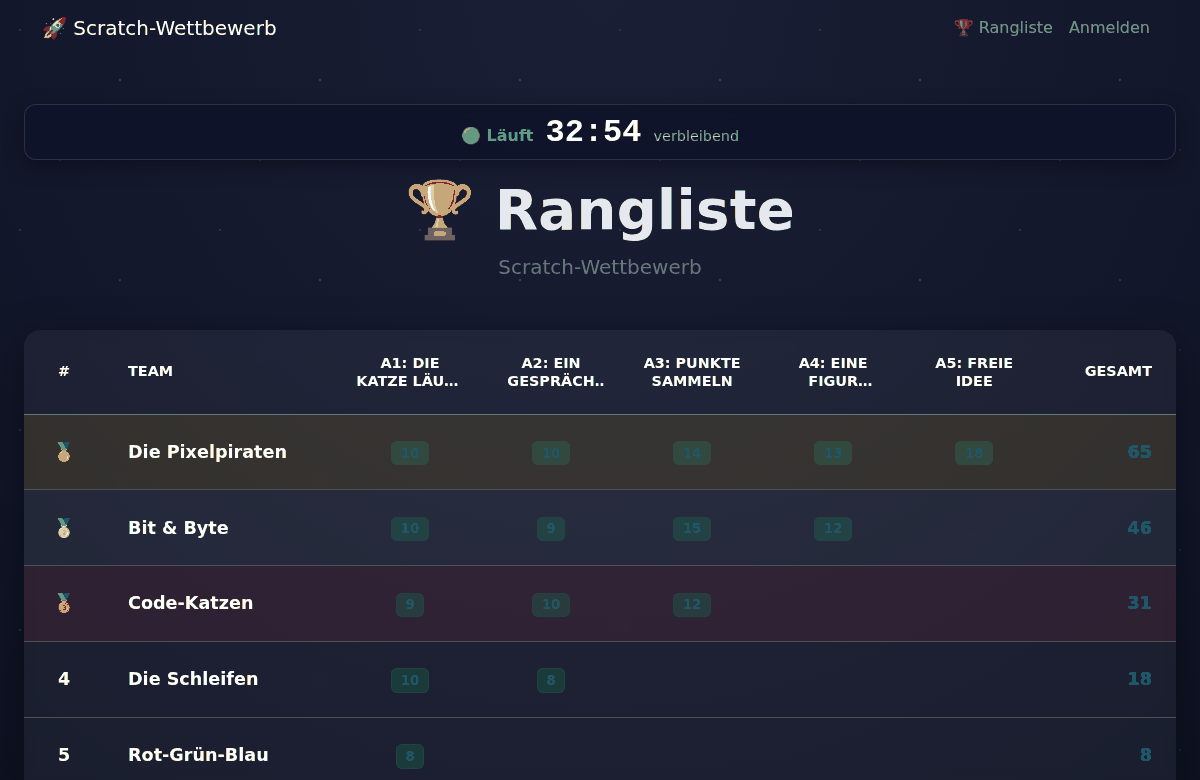
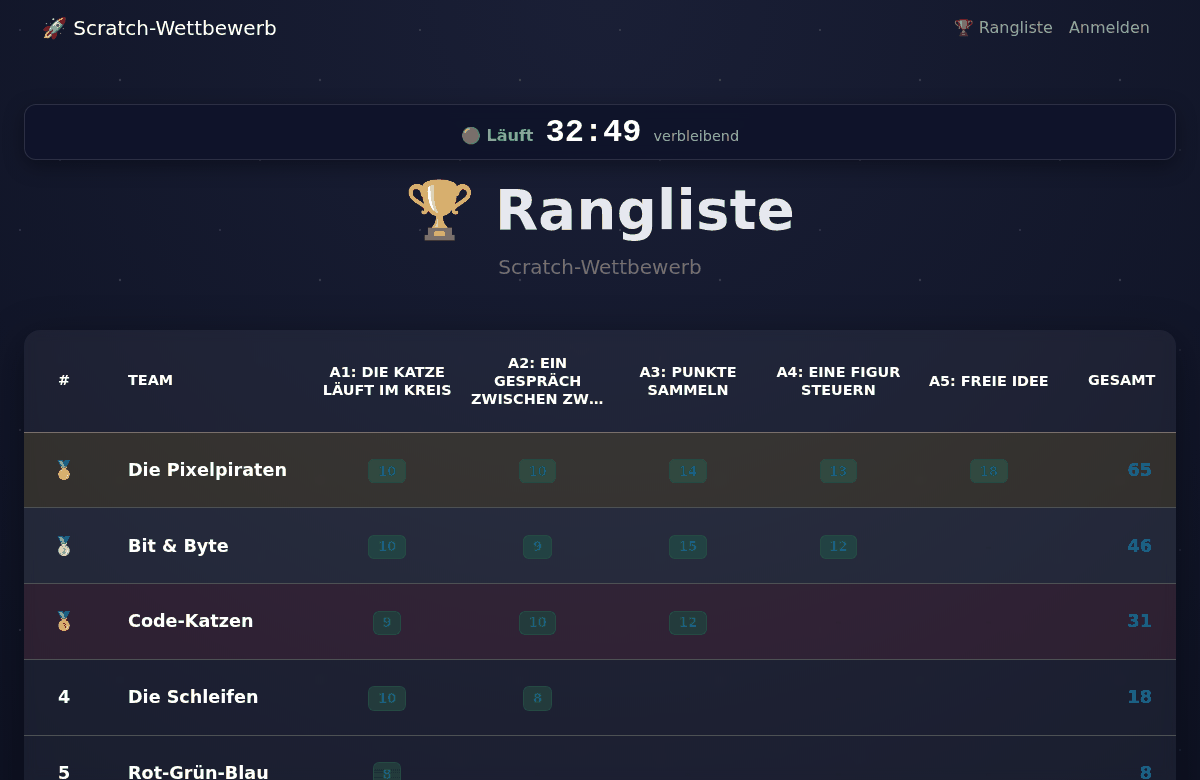
Rangliste passt ab Laptopbreite ganz auf die Seite
Mit 15 Aufgaben stand die Tabelle bei 1890 px seitlich über, die Spalte
„Gesamt“ war am Beamer nicht zu sehen. Ab 992 px teilt sich die Tabelle
die Seitenbreite: Platz, Team und Gesamt fest, die Aufgaben zu gleichen
Teilen, Titel bis zu drei Zeilen. Auf dem Handy wird weiter geschoben.

Claude-Session: https://claude.ai/code/session_01ACRifaqe4uUcFhZfaKFc9K

diff --git a/static/style.css b/static/style.css
@@ -109,6 +109,7 @@ input::placeholder, textarea::placeholder {
      ("Programmierwettbewerb") ist auf dem Handy breiter als die Seite und
      schöbe sie sonst zur Seite, statt umzubrechen. */
   overflow-wrap: anywhere;
+  hyphens: auto;
 }
 
 /* In der Leiste oben steht der Name des Wettbewerbs, und der kann lang sein.
@@ -358,5 +359,38 @@ input::placeholder, textarea::placeholder {
   -webkit-line-clamp: 2;
   line-clamp: 2;
   overflow: hidden;
+  overflow-wrap: anywhere;
+  hyphens: auto;
   line-height: 1.25;
+}
+
+.ranglisten-platz {
+  width: 80px;
+}
+
+/* Am Beamer müssen Platz und Gesamtpunkte ohne Schieben zu sehen sein, auch
+   bei vierzehn Aufgaben. Deshalb teilt sich die Tabelle ab Laptopbreite die
+   Breite der Seite: Platz, Team und Gesamt haben feste Spalten, die Aufgaben
+   bekommen den Rest zu gleichen Teilen. Werden sie schmal, kürzt sich der
+   Titel stärker - die Nummer vorne bleibt. Auf dem Handy lässt sich die
+   Tabelle wie bisher seitlich schieben. */
+@media (min-width: 992px) {
+  .ranglisten-tabelle {
+    table-layout: fixed;
+    width: 100%;
+  }
+
+  .ranglisten-team {
+    width: 13rem;
+  }
+
+  .ranglisten-gesamt {
+    width: 7rem;
+  }
+
+  .ranglisten-aufgabe {
+    width: auto;
+    -webkit-line-clamp: 3;
+    line-clamp: 3;
+  }
 }

diff --git a/templates/scoreboard.html b/templates/scoreboard.html
@@ -32,17 +32,17 @@
 
     <div class="event-card p-0 overflow-hidden">
       <div class="table-responsive">
-        <table class="table table-hover table-dark mb-0 bg-transparent" style="--bs-table-bg: transparent;">
+        <table class="ranglisten-tabelle table table-hover table-dark mb-0 bg-transparent" style="--bs-table-bg: transparent;">
           <thead>
             <tr class="text-secondary border-bottom border-secondary align-middle">
-              <th class="p-4 text-center" style="width: 80px;">#</th>
-              <th class="p-4">Team</th>
+              <th class="ranglisten-platz p-4 text-center">#</th>
+              <th class="ranglisten-team p-4">Team</th>
               {% for task in tasks %}
               <th class="py-4 px-2 text-center" title="A{{ loop.index }}: {{ task.title }}">
                 <span class="ranglisten-aufgabe">A{{ loop.index }}: {{ task.title }}</span>
               </th>
               {% endfor %}
-              <th class="p-4 text-end">Gesamt</th>
+              <th class="ranglisten-gesamt p-4 text-end">Gesamt</th>
             </tr>
           </thead>
           <tbody>
